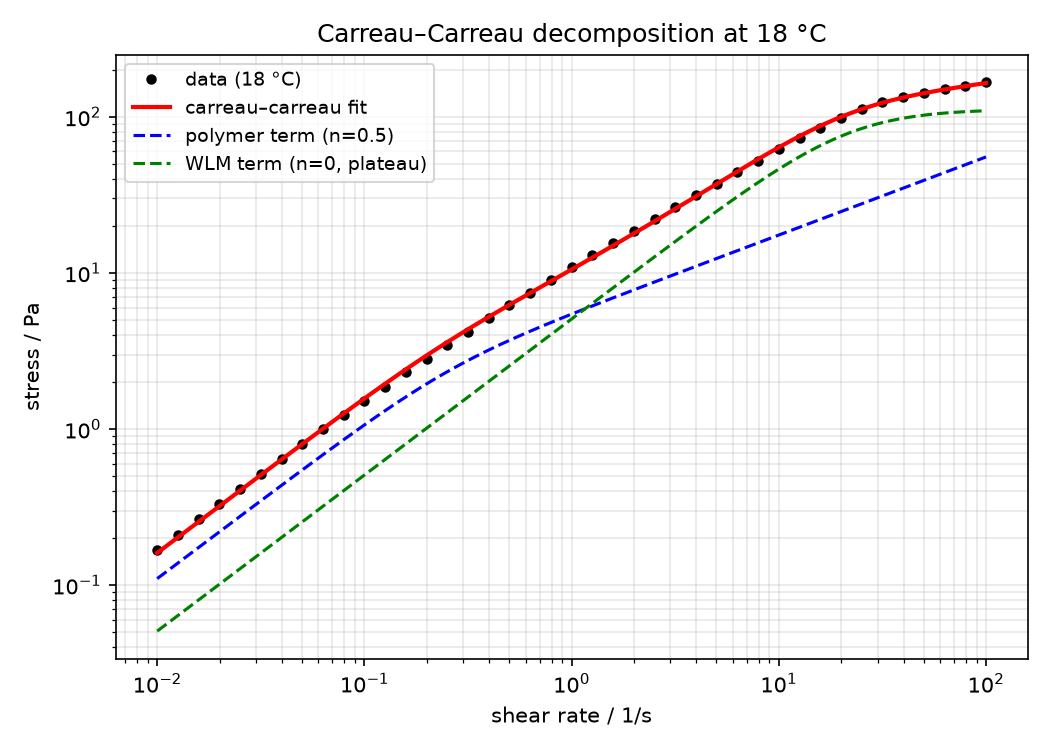
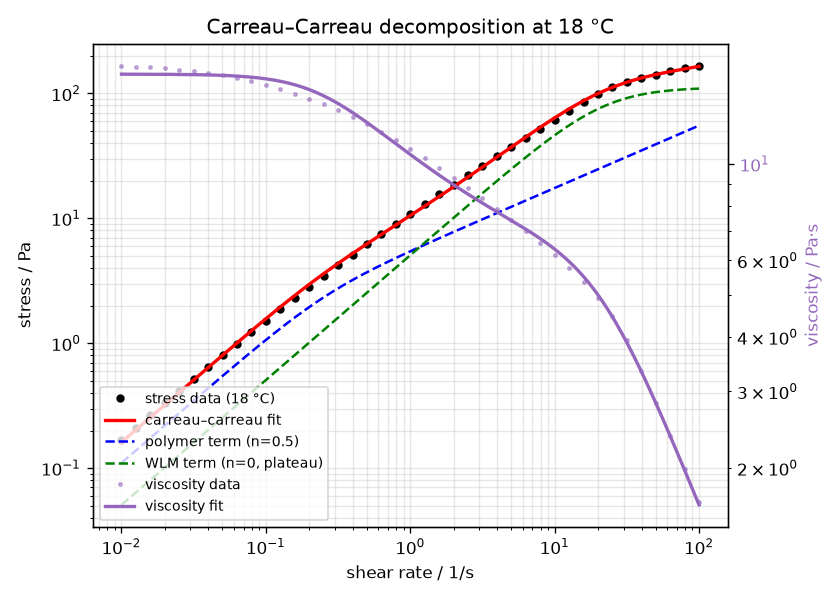
Walkthrough: viscosity twin axis on decomposition plot; LaTeX equations
- fig4 gains a twin y-axis with viscosity (eta = sigma/gammadot)
  data and fit, for readers who think in viscosity
- model equation and stress-plateau expression typeset in LaTeX

diff --git a/docs/walkthrough-carreau-carreau.md b/docs/walkthrough-carreau-carreau.md
@@ -33,7 +33,8 @@ Carreau mode with a **fixed** exponent:
 That is precisely the [`carreau_carreau`](models/carreau_carreau) model — a microstructure-informed
 (MIRM) sum of two Carreau terms:
 
-σ = η₀₁·γ̇·[1 + (λ₁·γ̇)²]^(−¼) + η₀₂·γ̇·[1 + (λ₂·γ̇)²]^(−½)
+$$\sigma = \eta_{0,1}\,\dot{\gamma}\,\left[1 + (\lambda_1 \dot{\gamma})^2\right]^{-1/4}
++ \eta_{0,2}\,\dot{\gamma}\,\left[1 + (\lambda_2 \dot{\gamma})^2\right]^{-1/2}$$
 
 ```mermaid
 flowchart LR
@@ -65,11 +66,13 @@ Reduced χ² = **8.28e-4** — about **15× better** than the single Carreau —
 number 11.6: every parameter identified, no degeneracy. The two relaxation times sit ~90×
 apart, exactly the separation the data demanded.
 
-![Carreau–Carreau decomposition at 18 °C into polymer and WLM terms](walkthrough/fig4_cc_decomposition_18C.png)
+![Carreau–Carreau decomposition at 18 °C into polymer and WLM terms, with viscosity on a twin axis](walkthrough/fig4_cc_decomposition_18C.png)
 
 The decomposition tells the physical story: a slow polymer mode (λ ≈ 4 s) carrying the
 low-shear viscosity, plus a fast WLM mode (λ ≈ 0.05 s) that flattens into its stress
-plateau (σ → η₀,₂/λ₂ ≈ 112 Pa) at high shear rates.
+plateau ($\sigma \to \eta_{0,2}/\lambda_2 \approx 112\ \mathrm{Pa}$) at high shear rates.
+The twin axis shows the same fit as viscosity ($\eta = \sigma/\dot{\gamma}$) — for readers
+who prefer to think in viscosity rather than stress.
 
 ## 🌡 Across temperatures: the parameters behave
 
